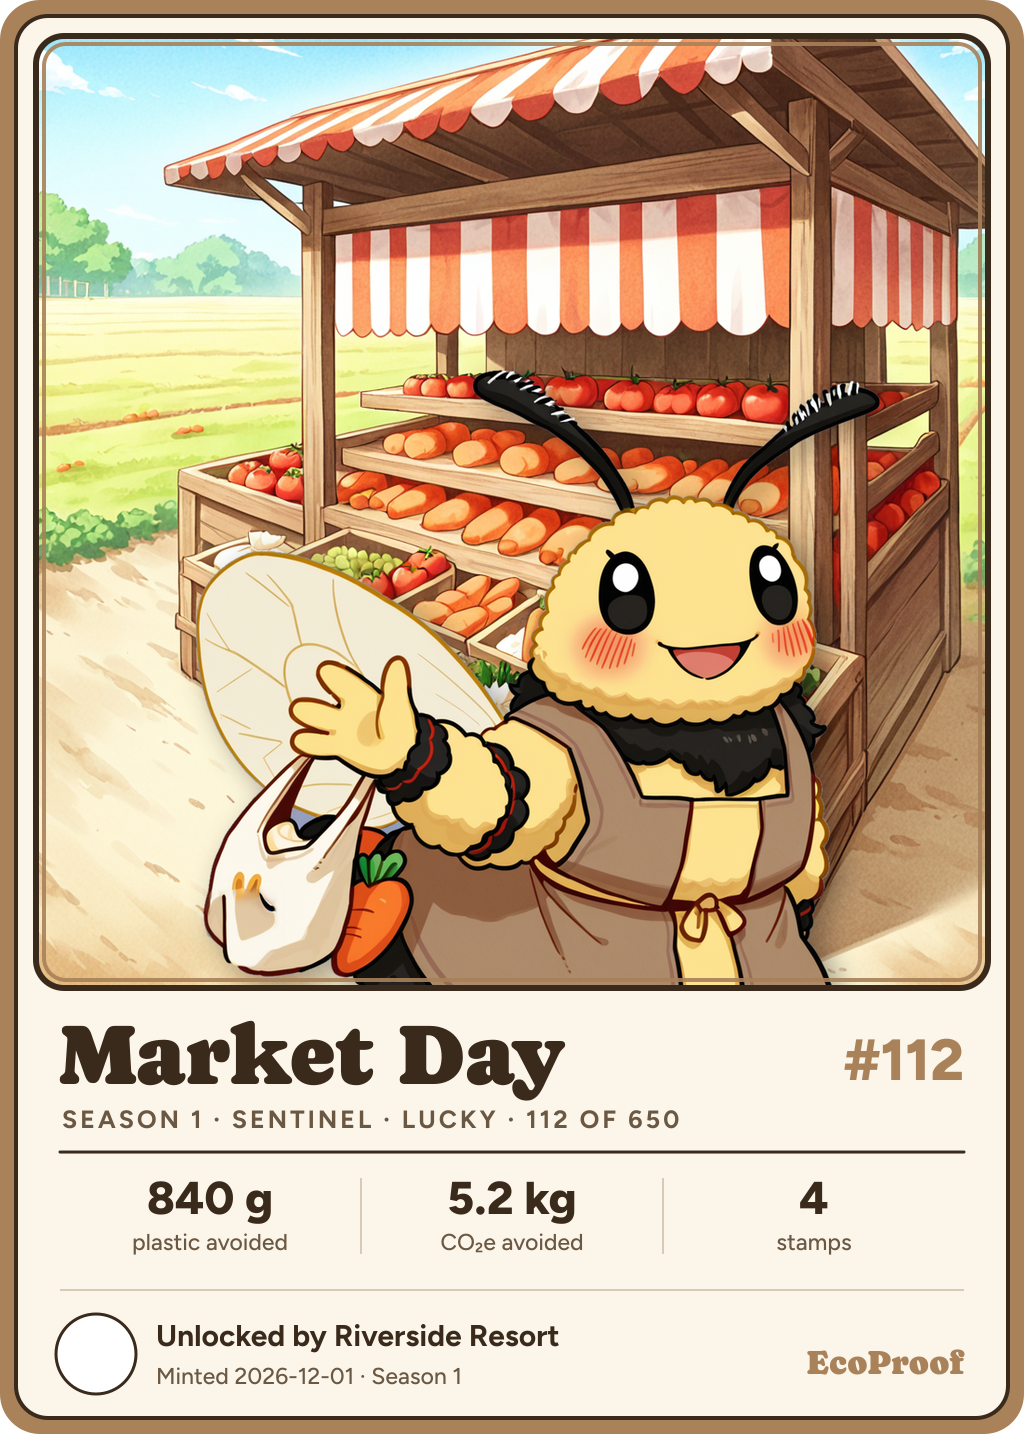
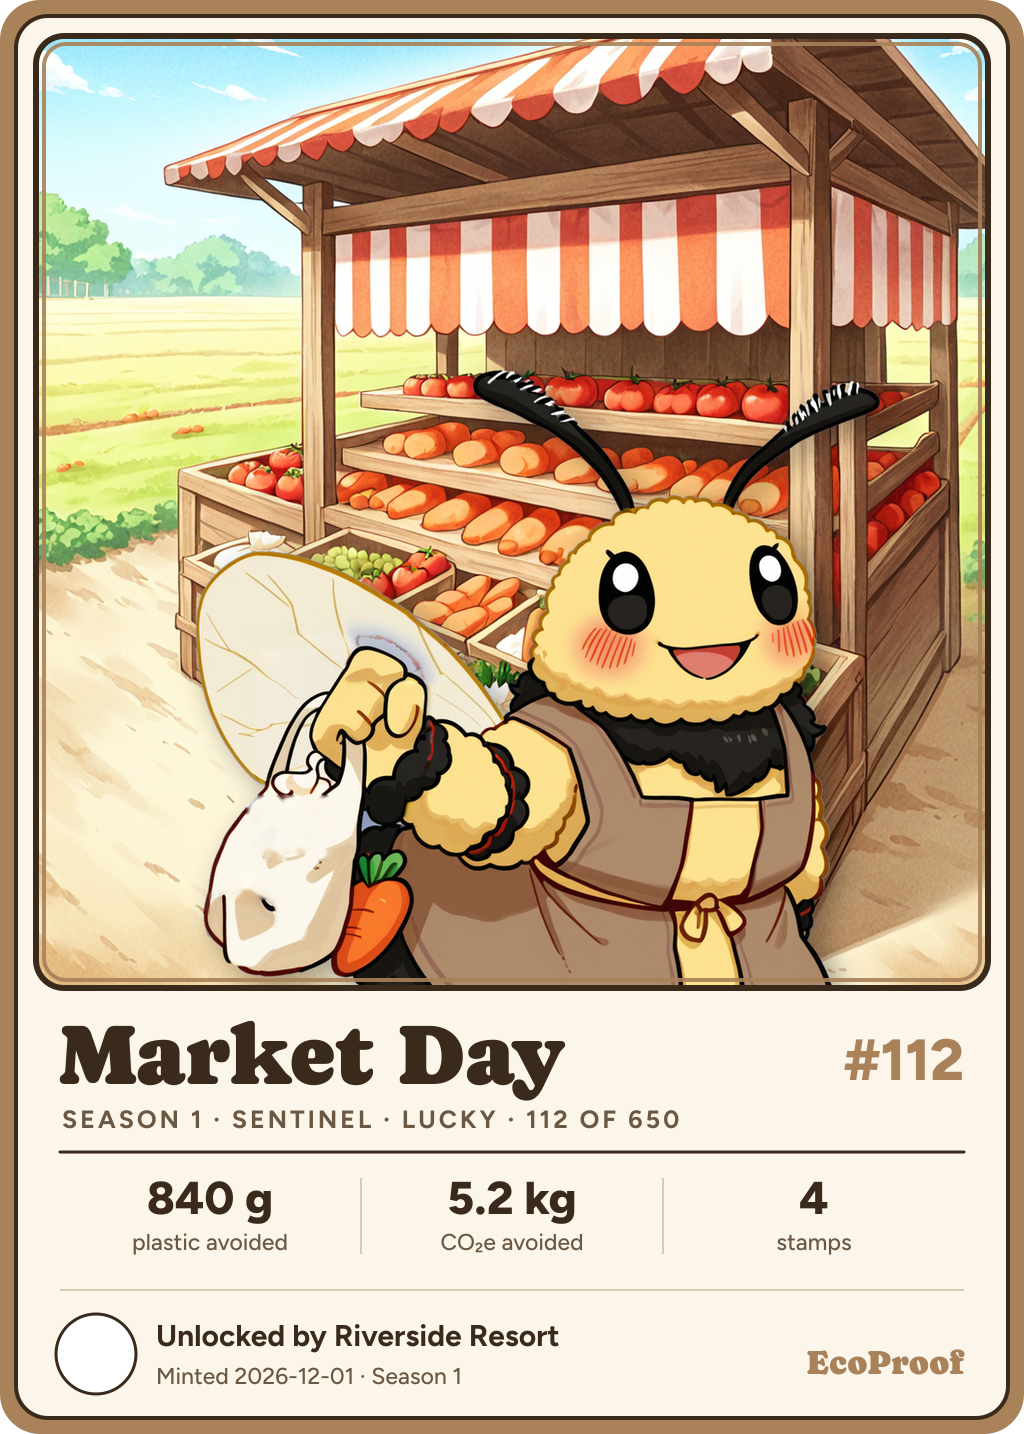
Season 1 art test: hands hold the map, the pole and the bag
Claude-Session: https://claude.ai/code/session_01HWHP3iugw8gkvvKKS5vpBj

Changed region(s): [[0.25, 0.4296, 0.4375, 0.6137], [0.2188, 0.6137, 0.25, 0.6444]]

diff --git a/art/season1/map.py b/art/season1/map.py
@@ -1,0 +1,36 @@
+#!/usr/bin/env python3
+"""Season 1, Four Corners: the Warden's map. Painting a map into the hand (fix.py) gave maps with no hand, so the map is drawn:
+an open folded sheet laid over a Warden render behind its raised hand, and the hand put back on top. fix.py with DENOISE=0.68 then
+closes the hand around the paper's edge. Usage (WebUI venv python): map.py <render.png> <hand x0,y0,x1,y1> → four_corners_bee_map.png"""
+import sys, pathlib, random
+import numpy as np, cv2
+from PIL import Image, ImageDraw, ImageFilter
+D = pathlib.Path(__file__).parent
+src = Image.open(D/sys.argv[1]).convert("RGB"); x0, y0, x1, y1 = [int(v) for v in sys.argv[2].split(",")]
+SAT = 130   # the hand is a stronger yellow than the wing behind it
+a = np.asarray(src); hsv = cv2.cvtColor(a, cv2.COLOR_RGB2HSV)
+hand = (((hsv[..., 1] > SAT) & (hsv[..., 0] > 12) & (hsv[..., 0] < 40)) | (hsv[..., 2] < 70)).astype(np.uint8)   # felt yellow or ink, not wing cream or sky
+box = np.zeros_like(hand); box[y0:y1, x0:x1] = 1; hand &= box
+hand = cv2.morphologyEx(hand, cv2.MORPH_CLOSE, np.ones((15, 15), np.uint8))
+hand = cv2.morphologyEx(hand, cv2.MORPH_OPEN, np.ones((21, 21), np.uint8))   # drop the thin wing outline caught with it
+n, lab, st, _ = cv2.connectedComponentsWithStats(hand, 4); hand = (lab == 1 + np.argmax(st[1:, cv2.CC_STAT_AREA])).astype(np.uint8)
+cnt, _ = cv2.findContours(hand, cv2.RETR_EXTERNAL, cv2.CHAIN_APPROX_SIMPLE); cv2.drawContours(hand, cnt, -1, 1, -1)
+INK, PAPER, SHADE = (58, 40, 28, 255), (247, 236, 208, 255), (236, 221, 188, 255); rnd = random.Random(11)
+W, H = 330, 400; m = Image.new("RGBA", (W + 40, H + 40), (0, 0, 0, 0)); d = ImageDraw.Draw(m); ox = oy = 20
+d.polygon([(ox, oy + 14), (ox + W//2, oy), (ox + W//2, oy + H - 12), (ox, oy + H)], fill=SHADE, outline=INK)          # left leaf, folded back a little
+d.polygon([(ox + W//2, oy), (ox + W, oy + 16), (ox + W, oy + H), (ox + W//2, oy + H - 12)], fill=PAPER, outline=INK)
+d.line([(ox, oy + 14), (ox + W//2, oy), (ox + W, oy + 16), (ox + W, oy + H), (ox + W//2, oy + H - 12), (ox, oy + H), (ox, oy + 14)], fill=INK, width=5, joint="curve")
+d.line([(ox + W//2, oy), (ox + W//2, oy + H - 12)], fill=(150, 120, 88, 255), width=3)
+d.line([(ox + 30, oy + 250), (ox + 90, oy + 205), (ox + 150, oy + 235), (ox + 215, oy + 180), (ox + 300, oy + 215)], fill=(120, 170, 200, 255), width=9, joint="curve")   # river
+route = [(ox + 40, oy + 345), (ox + 85, oy + 300), (ox + 75, oy + 150), (ox + 140, oy + 95), (ox + 205, oy + 120), (ox + 235, oy + 275), (ox + 290, oy + 330)]
+for (ax, ay), (bx, by) in zip(route, route[1:]):                                                                          # dotted footpath
+    k = max(2, int(((bx - ax)**2 + (by - ay)**2)**0.5/16))
+    for i in range(k): t = i/k; d.line([(ax + (bx - ax)*t, ay + (by - ay)*t), (ax + (bx - ax)*(t + 0.5/k), ay + (by - ay)*(t + 0.5/k))], fill=(176, 84, 44, 255), width=4)
+for (px, py) in route[1:-1] + [route[-1]]:                                                                                 # the places: small house marks
+    d.polygon([(px - 9, py), (px, py - 11), (px + 9, py)], fill=(176, 84, 44, 255)); d.rectangle((px - 7, py, px + 7, py + 9), fill=INK)
+for (px, py) in [(250, 70), (285, 95), (45, 90), (120, 330), (160, 345)]:                                                 # hills
+    d.line([(ox + px - 12, oy + py + 9), (ox + px, oy + py - 9), (ox + px + 12, oy + py + 9)], fill=(120, 140, 90, 255), width=3, joint="curve")
+m = m.rotate(7, resample=Image.BICUBIC, expand=True)
+out = src.convert("RGBA"); out.alpha_composite(m, (12, y0 - 345))   # the sheet's bottom edge runs through the hand
+out.paste(src, (0, 0), Image.fromarray(hand*255).filter(ImageFilter.GaussianBlur(0.8)))
+out.convert("RGB").save(D/"four_corners_bee_map.png"); print("four_corners_bee_map.png")

diff --git a/art/season1/compose.py b/art/season1/compose.py
@@ -8,17 +8,17 @@ from PIL import Image, ImageFilter
 D = pathlib.Path(__file__).parent
 PICKS = {  # card: bee render, scene, size of the bee (1 = full width), x of its left edge, and optional repairs
  "morning_cup": dict(bee="morning_cup_bee_d78_66002_fix_3.png", scene="morning_cup_scene_63004.png", scale=0.80, x=-40),
- "market_day": dict(bee="market_day_bee_d70_84002_fix_88002.png", scene="market_day_scene_63001.png", scale=0.76, x=150),
+ "market_day": dict(bee="market_day_bee_bag.png", scene="market_day_scene_63001.png", scale=0.76, x=150),
  # the render drew the antenna tips cream: darkened to the Sentinel's own brown-black
  "first_trail": dict(bee="first_trail_bee_d68_66001.png", scene="first_trail_scene_63004.png", scale=0.78, x=235, dark=[(370, 120, 610, 260), (790, 120, 1010, 260)]),
  "first_proof": dict(bee="first_proof_bee_d70_67002.png", scene="first_proof_scene_68002.png", scale=0.82, x=-150),
  "refill_round": dict(bee="refill_round_bee_d78_71001.png", scene="refill_round_scene_72002.png", scale=0.78, x=-90),
  "rain_patrol": dict(bee="rain_patrol_bee_d72_81003.png", scene="rain_patrol_scene_72003.png", scale=0.78, x=-60),
- "four_corners": dict(bee="four_corners_base_b_fix_88001.png", scene="four_corners_scene_72003.png", scale=0.78, x=-40),
+ "four_corners": dict(bee="four_corners_bee_map.png", scene="four_corners_scene_72003.png", scale=0.78, x=-10),
  "wrap_it": dict(bee="wrap_it_bee_d64_71005.png", scene="wrap_it_scene_72003.png", scale=0.78, x=-80),
  "hive_workshop": dict(bee="hive_workshop_bee_d78_71003.png", scene="hive_workshop_scene_72003.png", scale=0.78, x=-60),
  "night_watch": dict(bee="night_watch_bee_d78_71004.png", scene="night_watch_scene_72002.png", scale=0.78, x=-40),
- "river_crossing": dict(bee="river_crossing_bee_pole.png", scene="river_crossing_scene_83001.png", scale=0.76, x=200),
+ "river_crossing": dict(bee="river_crossing_bee_grip.png", scene="river_crossing_scene_83001.png", scale=0.76, x=200),
  "kilo_keeper": dict(bee="kilo_keeper_bee_d64_71005.png", scene="kilo_keeper_scene_72003.png", scale=0.76, x=-110),
  "mountain_pass": dict(bee="mountain_pass_bee_d70_84003.png", scene="mountain_pass_scene_72002.png", scale=0.76, x=-60),
  "storm_flight": dict(bee="storm_flight_bee_d80_71004.png", scene="storm_flight_scene_72001.png", scale=0.76, x=-60),

diff --git a/art/season1/fix.py b/art/season1/fix.py
@@ -1,7 +1,8 @@
 #!/usr/bin/env python3
 """Season 1 cards, repairs on a picked bee render before it is cut out: paint over a wrong part (A1111 inpainting, same checkpoint).
-Usage: fix.py <render.png> "<x,y x,y ...>" "<what should be there>" seed... → <render>_fix_<seed>.png  (polygon in 1024 px)."""
-import base64, io, json, sys, pathlib, urllib.request
+Usage: fix.py <render.png> "<x,y x,y ...>" "<what should be there>" seed... → <render>_fix_<seed>.png  (polygon in 1024 px).
+DENOISE=0.6 in the environment keeps more of what is there (default 0.82), e.g. to close a hand around something already drawn."""
+import base64, io, json, os, sys, pathlib, urllib.request
 import numpy as np, cv2
 from PIL import Image
 D = pathlib.Path(__file__).parent
@@ -11,7 +12,7 @@ mask = np.zeros((1024, 1024), np.uint8); cv2.fillPoly(mask, [np.int32(poly)], 25
 b64 = lambda im: base64.b64encode((lambda b: (im.save(b, "PNG"), b.getvalue())[1])(io.BytesIO())).decode()
 for seed in seeds:
     req = urllib.request.Request("http://127.0.0.1:7860/sdapi/v1/img2img", headers={"Content-Type": "application/json"}, data=json.dumps({
-        "init_images": [b64(Image.open(D/src).convert("RGB"))], "mask": b64(Image.fromarray(mask)), "mask_blur": 6, "inpainting_fill": 1, "inpaint_full_res": False, "denoising_strength": 0.82,
+        "init_images": [b64(Image.open(D/src).convert("RGB"))], "mask": b64(Image.fromarray(mask)), "mask_blur": 6, "inpainting_fill": 1, "inpaint_full_res": False, "denoising_strength": float(os.environ.get("DENOISE", 0.82)),
         "prompt": what + ", stylized character illustration, soft matte felt texture, ink outlines, flat colours, plain flat dusty sky blue background",
         "negative_prompt": "spikes, shell, armour, horn, claw, extra limb, extra arm, text, logo, second character, stinger, abdomen", "seed": int(seed), "steps": 30, "cfg_scale": 6.5,
         "sampler_name": "DPM++ 2M", "scheduler": "karras", "width": 1024, "height": 1024, "override_settings": {"sd_model_checkpoint": CKPT}, "save_images": False}).encode())
